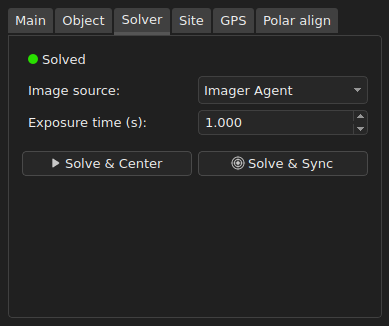
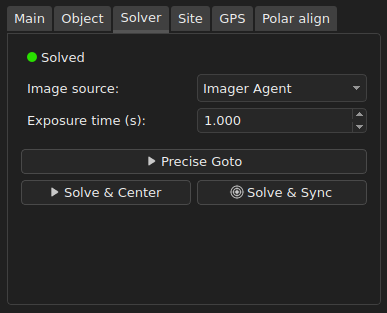
update users guide

diff --git a/ain_users_guide/ain_users_guide.md b/ain_users_guide/ain_users_guide.md
@@ -1,5 +1,5 @@
 # Ain INDIGO Imager - Users Guide
-Revision: 23.09.2023 (draft)
+Revision: 29.09.2023 (draft)
 
 Author: **Rumen G.Bogdanovski**
 
@@ -406,7 +406,8 @@ Pushing the **[-]** button will remove the selected custom object. Please note t
 ### Solver tab
 ![](images/telescope_solver.png)
 
-In the solver tab the user should select the image source and exposure time to be used. Two operations can be performed:
+In the solver tab the user should select the image source and exposure time to be used. Three operations can be performed:
+- **Precise Goto** - the selected agent will slew the telescope to the input coordinates and then perform solve and center (available in version 1.2-0 and newer).
 - **Solve & Center** - the selected agent will take an exposure, solve it, and using the solution as a reference will perform a precise goto to the target coordinates.
 - **Solve & Sync** - the selected agent will take an exposure, solve it, and the solution will be sent to the telescope as a reference (sync the telescope with the solution). This will allow precise goto in the vicinity.
 
@@ -434,9 +435,11 @@ Plate solving configuration and usage is described in [INDIGO Astrometry Agent -
 
 If a local file needs to be solved, **Image source** should be set to "Upload file". In this case, pushing the **Solve** button will display a file select dialog for choosing the file to be solved.
 
-If the displayed image is solved a **Right-Click** on it will copy the coordinates under the mouse cursor in the **RA / Dec input** boxes and pushing **Goto** button will slew the telescope to these coordinates. **Control + Right-Click** will copy and slew the telescope in one action. This can be used to center a certain object in the frame.
+If the displayed image is solved a **Right-Click** on it will copy the coordinates under the mouse cursor in the **RA / Dec input** boxes and pushing **Goto** button will slew the telescope to these coordinates. **Control + Right-Click** will copy and slew the telescope in one action. This can be used to center a certain object in the frame. The telescope coordinates offset regarding to the solved image coordinates will be taken in to account, unless the solved image is an Uploaded file. In this case the solved coordinates will be used as most likely the telescope is pointing to another coordinates and the offset can not be calculated.
 
-NOTE: If you want to achieve the same framing of an object as in a previous session, upload and solve a frame from this session and  **Right-Click** or **Control + Right-Click** on the image center and center the telescope to these coordinates as described above. Then if the rotation angle is different rotate the camera until the same rotation angle is reached as the solved one.
+If you use the target button (next to the solution status indicator) to load the solved image center in to **RA / Dec input** fileds, the coordinates will NOT be adjusted to compensate for the telescope coordinates offset.
+
+NOTE: If you want to get the same framing of an object as in a previous session, upload and solve a frame from this session and  **Right-Click** or **Control + Right-Click** on the image center and center the telescope to these coordinates as described above. Then if the rotation angle is different, rotate the camera until the same rotation angle is reached as the rotation ange of the reference frame.
 
 ## Accessing advanced device and agent settings
 
